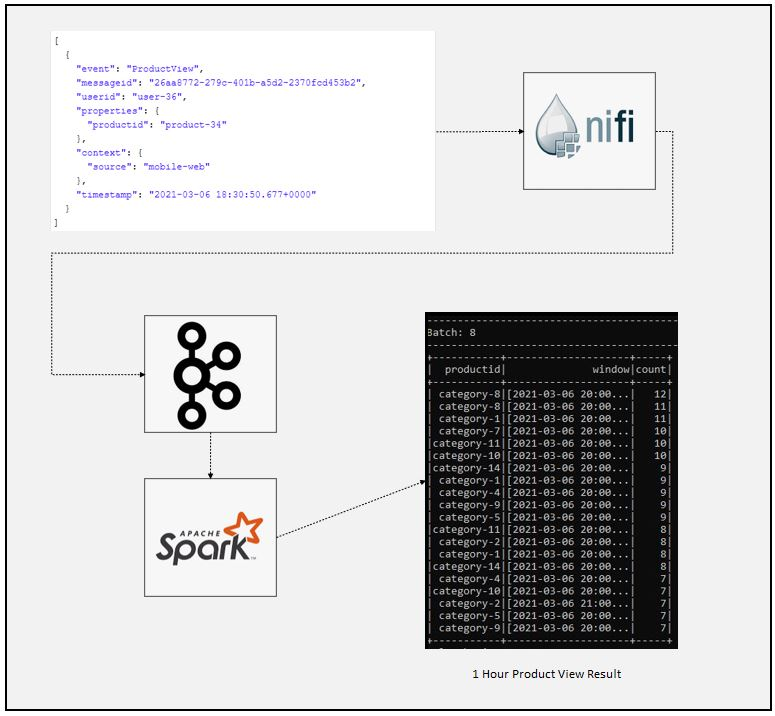
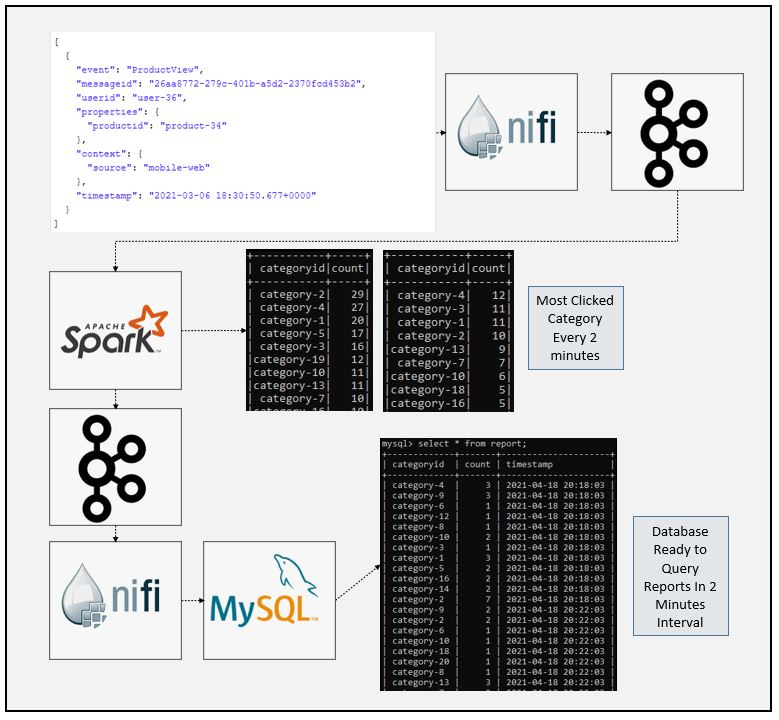
readme added

diff --git a/README.md b/README.md
@@ -1,0 +1,189 @@
+# SparkStream E-commerce Hourly Most Clicked Product Category
+### Dataflow Pipeline
+![](pipeline.JPG)
+
+### Summary
+
+In this application we used 30.000 order data and simulate those data as 1 transaction each second using apache kafka and apache nifi. Apache nifi used to transform raw data to make data ready for analysis. SparkStream api used to perform necessary transformations. Raw data contains product type and excel dictionary "product-category-map.csv" used to convert product column to category column. Results aggregated each hour and printed to consele for visualization. Same data consumed by another kafka topic to send it to the MYSQL database through apache nifi for further query and reporting. Normally NOSQL database must be used for horizontal scaleability but in this project mysql has been chosen to demonstrate apache nifi-mysql server integration.
+
+### Task List
+
+- [x] Check raw json data using https://jsoneditoronline.org/
+
+![](data.JPG)
+
+- [x] Create nifi pipeline
+
+![](nifi_pipeline.JPG)
+
+- [x] Create kafka topic
+- [x] Create spark session and define schema
+```
+spark = SparkSession \
+      .builder \
+      .appName("Tumbling Window Stream") \
+      .master("local[3]") \
+      .config("spark.streaming.stopGracefullyOnShutdown", "true") \
+      .config("spark.sql.shuffle.partitions", 2) \
+      .getOrCreate()
+
+#Describe schema (userid and productid will be enough to find most viewed category)
+  schema = StructType([
+  StructField("userid", StringType()),
+  StructField("properties", StructType([
+      StructField("productid", StringType())
+  ])),
+  StructField("timestamp", StringType())
+])
+```
+- [x] Read data from kafka topic
+```
+#Read data from kafka topic
+    kafka_df = spark.readStream \
+        .format("kafka") \
+        .option("kafka.bootstrap.servers", "localhost:9092") \
+        .option("subscribe", "view2") \
+        .option("startingOffsets", "earliest") \
+        .load()
+```
+- [x] Deserialization and transformations of data
+```
+#Data in kafka topic have key-value format, from_json is used to deserialize json value from string
+    value_df = kafka_df.select(from_json(col("value").cast("string"), schema).alias("value"))
+#Checking schema if everything is correct
+    value_df.printSchema()
+#Explode dataframe to remove sub-structures
+    explode_df = value_df.selectExpr("value.userid", "value.properties.productid",
+                                     "value.timestamp")
+#Checking schema if everything is correct
+    explode_df.printSchema()
+#Set timeParserPolicy=Legacy to parse timestamp in given format
+    spark.sql("set spark.sql.legacy.timeParserPolicy=LEGACY")
+#Convert string type to timestamp
+    transformed_df = explode_df.select("userid", "productid", "timestamp") \
+        .withColumn("timestamp", to_timestamp(col("timestamp"), "yyyy-MM-dd HH:mm:ss")) \
+
+#Checcking schema if everything is correct
+    transformed_df.printSchema()
+```
+- [x] Create 1 hour window
+```
+#Create 1 hour window
+#Create watermark to autoclean history
+#Groupby product_id and count considering distinct users
+#Rename new column as count
+    window_count_df = transformed_df \
+        .withWatermark("timestamp", "2 minutes") \
+        .groupBy(col("productid"),
+            window(col("timestamp"),"2 minutes")) \
+            .agg(approx_count_distinct("userid").alias("count"))
+```
+- [x] Convert productid column with categoryid column
+```
+#Select everything from dataframe and sort by highest to lowest count rate
+    output_df = window_count_df.select("*")
+    output_df.printSchema()
+#Import category - product ID csv file
+    dict_df = spark.read.csv('C:/Users/PC/Documents/Jupyter/Job_Interview_Cases/Hepsiburada/Unzip/data/product-category-map.csv')
+#Create dictionary from dataframe
+    dict = dict_df.select('_c0', '_c1').rdd.collectAsMap()
+#Map current dataframe with created dictionary to replace product_id with category name
+    output_df = output_df.na.replace(dict, 1)
+#Rename product_id column to category id
+    output_df = output_df.withColumnRenamed("productid","categoryid")
+```
+- [x] Create 2 foreach batch function to perform aggregations and write data into kafka topic and console
+```
+#Define foreach batch function to aggrate stream data several times and sink to csv file
+def foreach_batch_func(df, epoch_id):
+    df = df.groupBy(col("categoryid")).sum("count")
+    df = df.withColumnRenamed("sum(count)","count")
+    df = df.sort(desc("count"))
+    #Prepare serialized kafka values
+    kafka_df = df.select("*")
+    #Choose columns
+    kafka_df = kafka_df.selectExpr("*")
+
+    kafka_target_df = kafka_df.selectExpr("categoryid as key",
+                                                     "to_json(struct(*)) as value")
+    kafka_target_df.coalesce(1) \
+        .write \
+        .format("kafka") \
+        .option("header","true") \
+        .option("kafka.bootstrap.servers", "localhost:9092") \
+        .option("topic", "view3") \
+        .save()
+    pass
+#Coalesce(1) prevent csv file partitioning
+
+
+#Define foreach batch function to aggrate stream data several times and print console
+def foreach_batch_func2(df, epoch_id):
+    df = df.groupBy(col("categoryid")).sum("count")
+    df = df.withColumnRenamed("sum(count)","count")
+    df = df.sort(desc("count"))
+    df \
+        .write.format("console") \
+        .save()
+    pass
+```
+- [x] Write data into console and kafka topic
+```
+#Write spark stream to console or csv sink
+    window_query = output_df.writeStream \
+    .foreachBatch(lambda df, epoch_id: foreach_batch_func(df, epoch_id))\
+    .outputMode("append") \
+    .trigger(processingTime="2 minutes") \
+    .start()
+
+#Write spark stream to console or csv sink
+    window_query_2 = output_df.writeStream \
+    .foreachBatch(lambda df, epoch_id: foreach_batch_func2(df, epoch_id))\
+    .outputMode("append") \
+    .option("format","append") \
+    .option("path","C:/Users/PC/Documents/Jupyter/Job_Interview_Cases/Hepsiburada/Unzip/data/") \
+    .trigger(processingTime="2 minutes") \
+    .start()
+
+    window_query.awaitTermination()
+```
+- [x] Check the results to find most clicked categories
+
+![](result4.JPG)
+![](result5.JPG)
+
+- [x] Create mysql database and establish connection between mysql and apache nifi
+- [x] Send data to mysql
+
+![](mysql_result.JPG)
+
+### Code Description
+
+Product_View_Pipeline.xml is nifi pipeline to simulate dataflow and perform ETL operations as well as sending data to mysql server.
+
+nifi_spark_kafka_product_view.py is spark streaming code for data processing, analysis and sink operation.
+
+
+### Running
+
+1. Start zookeeper (Check kafka scripts)
+
+```
+zookeeper-server-start.bat config\zookeeper.properties (zookeeper-server-start.sh for linux)
+```
+
+2. Start kafka (Check kafka scripts)
+```
+kafka-server-start.bat config\server.properties  (kafka-server-start.sh for linux)
+```
+
+3. Start nifi and processors
+
+4. Execute below code
+
+```
+spark-submit --packages org.apache.spark:spark-sql-kafka-0-10_2.12:3.0.1 nifi_spark_kafka_product_view.py
+```
+5. Start mysql server
+
+6. Check results
